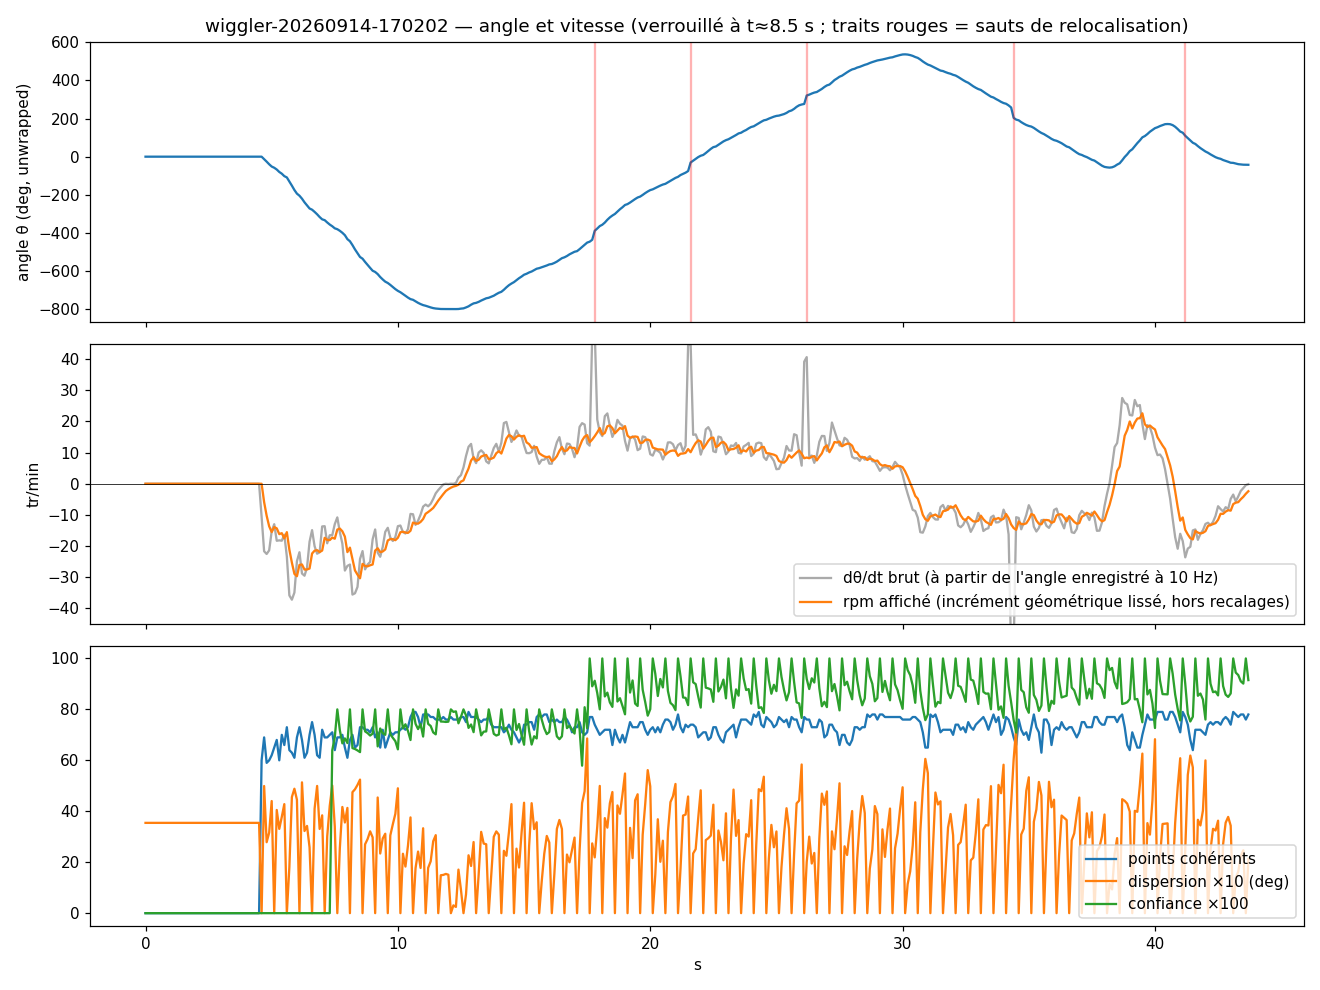
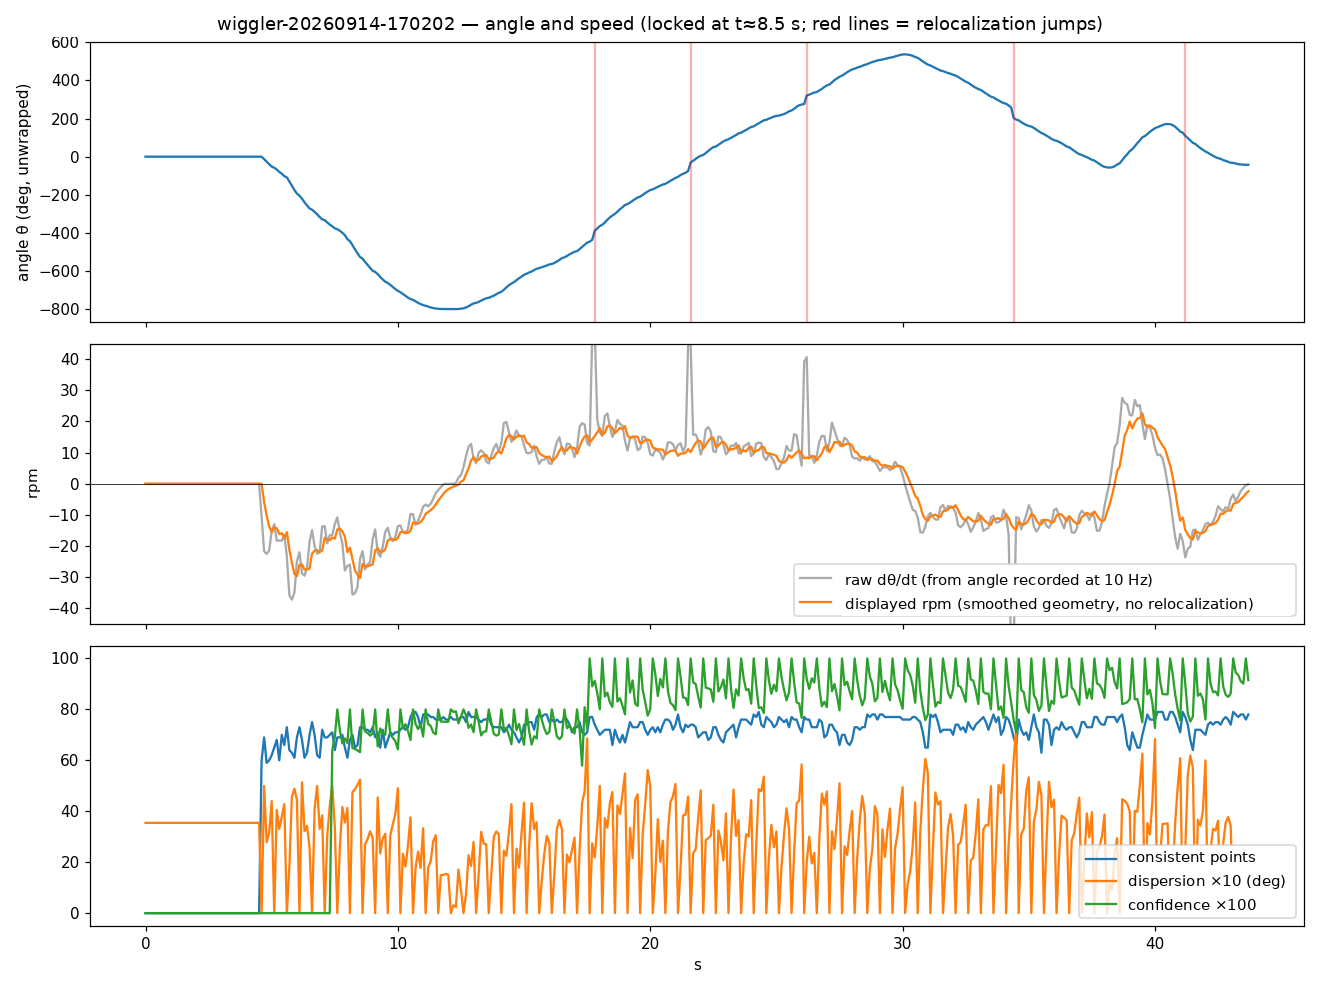
Translate repository text and chart annotations to English

diff --git a/README.md b/README.md
@@ -1,184 +1,181 @@
 # Wiggler
 
-App iPhone (15 Pro, iOS 17+) qui mesure en temps réel la rotation d'un objet filmé par un téléphone fixe :
-tour de potier, chaise de bureau, n'importe quoi qui tourne autour d'un axe fixe. Elle infère l'axe, puis l'angle
-de l'objet (0–360°) autour de cet axe, et affiche en réalité augmentée un cylindre sur l'axe et un rayon
-(demi-plan) qui tourne avec la pièce.
+An iPhone app (15 Pro, iOS 17+) that measures the rotation of an object in real time from a stationary phone:
+a pottery wheel, an office chair, or anything rotating around a fixed axis. It infers the axis, then the object's
+angle (0–360°) around that axis, and displays an augmented-reality cylinder along the axis and a ray
+(half-plane) that rotates with the object.
 
-Aucune hypothèse sur l'objet, la distance ou le point de vue. Une seule hypothèse : entre deux ré-évaluations
-l'objet est à peu près rigide et l'axe à peu près fixe (« semi-statique »). Tous les capteurs sont utilisés en
-permanence : image de la caméra, profondeur LiDAR, pose ARKit.
+No assumptions about the object, distance, or viewpoint. There is just one assumption: between two estimates,
+the object is approximately rigid and its axis approximately fixed ("semi-static"). All sensors are used
+continuously: camera image, LiDAR depth, and ARKit pose.
 
-## Construire
+## Build
 
 ```bash
 brew install xcodegen
 cd wiggler
-xcodegen generate          # produit Wiggler.xcodeproj
-open Wiggler.xcodeproj     # choisir votre équipe de signature, cible = votre iPhone
+xcodegen generate          # generates Wiggler.xcodeproj
+open Wiggler.xcodeproj     # select your signing team and your iPhone as the target
 ```
 
-Les tests du cœur algorithmique tournent sans iPhone, directement sur le Mac :
+The algorithmic core's tests run directly on a Mac, without an iPhone:
 
 ```bash
 cd WigglerCore
 swift test
 ```
 
-Ils vérifient l'algèbre (valeurs propres, transformations), le suivi de points, l'estimation d'axe, le suivi
-d'angle, la détection de période d'aspect, et un test de bout en bout sur une scène synthétique (disque texturé
-en rotation à vitesse variable, avec carte de profondeur et bruit).
+They check the algebra (eigenvalues, transforms), point tracking, axis estimation, angle tracking,
+appearance-period detection, and an end-to-end synthetic scene (a textured disk rotating at variable speed,
+with a depth map and noise).
 
-Un `Wiggler.xcodeproj` écrit à la main est aussi fourni (pas besoin de XcodeGen). Le bouton « Enregistrer » de
-l'app écrit des fichiers `.wig` (image 480×360, profondeur, pose, sorties du moteur) partageables par AirDrop et
-rejouables hors ligne avec `tools/replay.py`, et comparables entre stratégies de fusion avec
-`tools/fusion.py` (qui sait aussi injecter une occlusion ou une bibliothèque périmée pour tester les deux
-comportements qui comptent).
+A hand-written `Wiggler.xcodeproj` is also provided (XcodeGen is not required). The app's Record button writes
+`.wig` files (480×360 image, depth, pose, engine outputs) that can be shared through AirDrop and replayed
+offline with `tools/replay.py`. Fusion strategies can be compared with `tools/fusion.py`, which can also inject
+an occlusion or a stale library to test those two key behaviors.
 
-## Utilisation
+## Usage
 
-1. Fixer le téléphone en portrait, l'objet dans le champ.
-2. Toucher l'objet à l'écran : une croix apparaît ; les points sont cherchés dans un large disque autour d'elle.
-   Toucher ailleurs, ou glisser, déplace le repère. Chaque déplacement relance l'algorithme depuis zéro — c'est
-   fait pour « jouer avec le point » et déboguer.
-3. Faire tourner l'objet. État « calibration » : l'app collecte des cordes 3D jusqu'à trouver un axe bien
-   conditionné, puis attend un tour complet (compteur 0→360°). État « verrouillé » : l'axe est affiché (ligne
-   cyan, cylindre translucide, anneau à la base) et le rayon orange tourne avec la pièce.
-4. Pendant le premier tour après verrouillage, l'app apprend l'aspect de la pièce tous les 10° (jauge
-   « aspect »). Ensuite elle recale l'angle absolu en permanence sur cette bibliothèque et détecte la période
-   d'aspect : 360° (pièce quelconque), 180°, 120°… ou « symétrique » (pièce de révolution : seul l'angle relatif
-   est disponible, l'angle affiché dérive lentement).
+1. Mount the phone in portrait orientation with the object in view.
+2. Tap the object on screen: a cross appears, and points are detected in a large disk around it.
+   Tapping elsewhere, or dragging, moves the marker. Each move restarts the algorithm from scratch, so you
+   can experiment with marker placement and debug tracking.
+3. Rotate the object. In the calibrating state, the app collects 3D chords until it finds a well-conditioned
+   axis, then waits for a full turn (0→360° counter). In the locked state, the axis is displayed as a cyan line,
+   a translucent cylinder, and a ring at the base; the orange ray rotates with the object.
+4. During the first turn after locking, the app learns the object's appearance every 10° (appearance gauge).
+   It then continuously aligns the absolute angle with this library and detects the appearance period:
+   360° for an arbitrary object, 180°, 120°… or rotational symmetry. For a body of revolution, only the relative
+   angle is available, and the displayed angle drifts slowly.
 
-Points affichés : vert = suivi cohérent avec la rotation, rouge = incohérent (mains, fond), jaune = pas de
-profondeur, blanc = nouveau.
+Point colors: green = tracking consistent with rotation, red = inconsistent (hands, background),
+yellow = no depth, white = new.
 
-## Comment ça marche
+## How it works
 
-Tout est dans `WigglerCore` (Swift pur, sans dépendance Apple, donc testable sur Mac). L'app (`Wiggler/`) ne fait
-que convertir les frames ARKit, appeler le moteur et dessiner.
+The algorithms live in `WigglerCore` (pure Swift, without Apple platform-framework dependencies, so they can
+be tested on a Mac). The app (`Wiggler/`) converts ARKit frames, calls the engine, and renders the output.
 
-### 1. Suivi de points (image)
+### 1. Point tracking (image)
 
-Image luma réduite à 480×360. Coins de Shi–Tomasi détectés dans le disque autour du repère, suivis d'une frame
-à l'autre par un Lucas–Kanade pyramidal (4 niveaux, fenêtre 9×9) : à 100 tr/min et 60 fps un point du bord
-bouge d'une quinzaine de pixels, ce que la pyramide absorbe. Les pistes sont tuées quand le résidu photométrique
-monte (occlusion par la main), quand elles sortent de la région, ou quand elles s'avèrent statiques (fond).
-Le stock de pistes est réapprovisionné en continu (~160 points).
+The luma image is downscaled to 480×360. Shi–Tomasi corners are detected in the disk around the marker and
+tracked between frames with pyramidal Lucas–Kanade (4 levels, 9×9 window). At 100 rpm and 60 fps, an edge point
+moves about fifteen pixels, which the pyramid can handle. Tracks are removed when their photometric residual
+rises (hand occlusion), when they leave the region, or when they prove to be static background points.
+The pool of tracks is continuously replenished (~160 points).
 
-### 2. Points 3D (LiDAR + pose)
+### 2. 3D points (LiDAR + pose)
 
-Chaque point suivi est dé-projeté avec la profondeur LiDAR (médiane 3×3, rejet des bords de profondeur) et les
-intrinsèques de la caméra, puis passé en coordonnées monde avec la pose ARKit — ce qui absorbe les petits
-mouvements du téléphone. Résultat : des trajectoires 3D métriques, sans aucune connaissance de l'échelle ni de
-la distance.
+Each tracked point is unprojected using LiDAR depth (3×3 median, depth-edge rejection) and the camera
+intrinsics, then transformed into world coordinates using the ARKit pose. This compensates for small phone
+movements. The result is a set of metric 3D trajectories, without prior knowledge of scale or distance.
 
-### 3. Axe : contraintes de cordes
+### 3. Axis: chord constraints
 
-Un point rigide qui tourne autour d'un axe (c, n) décrit un cercle dans un plan ⊥ n. Pour deux positions a, b
-d'une même piste, la corde d = b − a vérifie exactement, quelle que soit l'amplitude de l'arc :
+A rigid point rotating around an axis (c, n) traces a circle in a plane perpendicular to n. For two positions
+a and b on the same track, the chord d = b − a satisfies these exact identities, regardless of arc size:
 
-* d · n = 0 (la corde est dans le plan du cercle) ;
-* (m − c) · d = 0 avec m = (a+b)/2 (la médiatrice d'une corde passe par le centre).
+* d · n = 0 (the chord lies in the circle's plane);
+* (m − c) · d = 0, where m = (a+b)/2 (the perpendicular bisector of a chord passes through the center).
 
-Le moteur accumule ces cordes (une par piste toutes les 3 frames, avec une longueur minimale adaptée au bruit :
-2 cm puis 10 % du rayon de l'objet, base temporelle ≤ 0,75 s) dans une fenêtre glissante de 15 s, et résout :
+The engine accumulates these chords in a sliding 15 s window: one per track every 3 frames, with a minimum
+length adapted to the noise (2 cm initially, then 10% of the object radius) and a time span ≤ 0.75 s. It solves:
 
-* n = vecteur propre de la plus petite valeur propre de Σ w dᵀd ;
-* c = moindres carrés linéaires de Σ w ((m − c)·d̂)², contraint dans le plan ⊥ n passant par le barycentre.
+* n = the eigenvector of the smallest eigenvalue of Σ w d dᵀ;
+* c = the linear least-squares solution of Σ w ((m − c)·d̂)², constrained to the plane perpendicular to n
+  through the centroid.
 
-Le tout en IRLS avec pondération de Huber (3 cm) : mains, fond et profondeurs aberrantes tombent en
-dehors. La qualité est lue sur les valeurs propres (planarité λ₀/λ₁, couverture angulaire λ₁/λ₂) et le taux
-d'inliers. Validé en Python : 0,25° sur la direction et 0,7 mm sur la position avec 6 mm de bruit et 20 % de
-points parasites.
+IRLS with Huber weights (3 cm) rejects hands, background, and depth outliers. Quality is assessed from the
+eigenvalues (planarity λ₀/λ₁, angular coverage λ₁/λ₂) and the inlier ratio. Python validation measured 0.25°
+direction error and 0.7 mm position error with 6 mm noise and 20% outliers.
 
-### 4. Angle : offsets par piste (la « mesure relative »)
+### 4. Angle: per-track offsets (the relative measurement)
 
-Pour chaque piste i, l'azimut φᵢ(t) autour de l'axe vaut θ(t) + oᵢ. L'offset oᵢ est ancré à la naissance de la
-piste ; θ(t) est la moyenne circulaire robuste (Cauchy puis porte à 15°, poids ∝ min(r, r_cap)²) des φᵢ − oᵢ,
-prédite par la vitesse précédente pour encaisser 10°/frame. Les pistes incohérentes trois frames de suite sont
-ré-ancrées. Comme chaque piste « se souvient » de θ depuis sa naissance, la dérive ne vient que du renouvellement
-des pistes, pas de chaque frame (≈ 2° RMS en simulation à 100 tr/min, 6 mm de bruit).
+For each track i, the azimuth φᵢ(t) around the axis is θ(t) + oᵢ. The offset oᵢ is anchored when the track is
+created. θ(t) is the robust circular mean of φᵢ − oᵢ (Cauchy weighting followed by a 15° gate, with weights
+proportional to min(r, r_cap)²), predicted from the previous velocity to handle 10°/frame. Tracks that remain
+inconsistent for three consecutive frames are re-anchored. Since each track remembers θ from its creation,
+drift comes only from track turnover, not from every frame (about 2° RMS in simulation at 100 rpm with 6 mm noise).
 
-Le raffinement de l'axe est fait **après** la mesure d'angle, jamais avant : ré-ancrer les offsets d'abord rend
-tous les candidats d'accord avec θ courant et détruit silencieusement un incrément toutes les
-`axisUpdateInterval` frames (mesuré : 7 % des images gelées, soit ~7 % de rotation perdue en permanence).
+The axis is refined **after** the angle measurement, never before. Re-anchoring offsets first makes every
+candidate agree with the current θ and silently discards one increment every `axisUpdateInterval` frames.
+The measured effect was 7% frozen frames, meaning about 7% of the rotation was consistently lost.
 
-### 4 bis. Recoupement indépendant
+### 4b. Independent cross-check
 
-Les mêmes correspondances KLT donnent aussi une rotation 2D dans le plan image (Procrustes + IRLS,
-`similarityRotation`). Elle n'utilise ni la profondeur ni l'axe, donc elle échoue dans d'autres situations que
-l'azimut 3D. Le rapport entre les deux est appris en ligne (il ne dépend que de l'inclinaison de l'axe vis-à-vis
-de la caméra, constante à téléphone fixe) ; quand les deux cessent de concorder trois frames de suite, c'est que
-quelque chose d'autre s'est emparé des points suivis, et la géométrie n'est plus déclarée « saine » — quel que
-soit le nombre d'inliers qu'elle annonce.
+The same KLT correspondences also provide a 2D image-plane rotation (Procrustes + IRLS, `similarityRotation`).
+It uses neither depth nor the axis, so it fails in different situations from the 3D azimuth. The ratio between
+them is learned online; it depends only on the axis tilt relative to the camera, which is constant for a fixed
+phone. If the two disagree for three consecutive frames, something else has taken over the tracked points.
+The geometry is then no longer considered healthy, regardless of its reported inlier count.
 
-### 5. Aspect et fusion (la « mesure absolue »)
+### 5. Appearance and fusion (the absolute measurement)
 
-Une vignette 32×32 de la région d'intérêt est rangée dans un casier tous les 10°. La bibliothèque est utilisable
-dès 6 casiers — attendre un tour complet la rendrait indisponible la plupart du temps (mesuré : 8 % → 94 % du
-temps verrouillé). La moyenne des casiers remplis (le fond statique) est soustraite avant normalisation.
+A 32×32 patch of the region of interest is stored in an angular bin every 10°. The library is usable as soon as
+6 bins are filled. Waiting for a full turn would leave it unavailable most of the time; measured availability
+rose from 8% to 94% of the locked time. The mean of the filled bins (the static background) is subtracted before
+normalization.
 
-La fusion (`AngleFusion`) est un filtre complémentaire classique, l'incrément géométrique jouant le gyroscope et
-l'aspect la boussole :
+Fusion (`AngleFusion`) uses a classic complementary filter. The geometric increment acts as a gyroscope,
+and appearance acts as a compass:
 
-1. **Aucun téléport.** Une correction devient un débit borné (90°/s), donc l'angle affiché est toujours continu —
-   et les tr/min, qui viennent du seul incrément géométrique, ne sont jamais pollués par les recalages.
-2. **Une incertitude honnête.** σ croît en marche aléatoire (renouvellement des pistes) tant que la géométrie
-   mesure, et **linéairement à la vitesse de rotation** quand elle ne mesure plus : un objet que personne ne
-   regarde continue de tourner dans le même sens. C'est pour cela qu'une occlusion de 0,3 s à 100 tr/min ouvre le
-   portail à 180° alors que 30 s de suivi sain le garde à quelques degrés.
-3. **Portail et validation.** Un appariement n'est utilisé que dans un portail d'innovation à 3σ, et seulement si
-   aucun appariement nettement meilleur ne se trouve en dehors. Le lobe à 120° d'une boîte hexagonale devient donc
-   impossible à suivre après un fonctionnement sain, et une vraie ré-acquisition à 150° reste possible juste après
-   une perte.
+1. **No jumps.** A correction becomes a bounded rate (90°/s), keeping the displayed angle continuous.
+   The rpm reading comes only from the geometric increment and is never contaminated by realignment.
+2. **Honest uncertainty.** σ grows as a random walk through track turnover while geometry provides a
+   measurement, and **linearly with rotation speed** when it does not: an unobserved object keeps rotating in
+   the same direction. This is why a 0.3 s occlusion at 100 rpm opens the gate to 180°, while 30 s of healthy
+   tracking keeps it within a few degrees.
+3. **Gating and validation.** A match is used only inside a 3σ innovation gate, and only if no clearly better
+   match lies outside it. The 120° lobe of a hexagonal box therefore cannot be followed after healthy tracking,
+   while genuine reacquisition at 150° remains possible immediately after a loss.
 
-Quand un appariement **fort** contredit une géométrie **saine** pendant plus de 2 s, c'est la bibliothèque qui a
-tort (objet déplacé, éclairage changé) : elle est reconstruite au lieu d'être combattue.
+When a **strong** match contradicts **healthy** geometry for more than 2 s, the library is considered stale
+(the object moved or the lighting changed). It is rebuilt rather than allowed to fight the geometry.
 
-Mesuré sur `wiggler-20260914-160109` (90 s, manipulations à la main) : 11 discontinuités jusqu'à 177° avant,
-**0 après**, et le résidu contre la rotation d'image indépendante passe de 39 à 19 °/s.
+Measurements on `wiggler-20260914-160109` (90 s, hand manipulations): 11 discontinuities of up to 177° before,
+**0 after**, and the residual against independent image rotation decreased from 39 to 19 °/s.
 
-### 6. Affichage
+### 6. Rendering
 
-SceneKit (`ARSCNView`) : repère local (e₁, n, −e₂) placé sur l'axe monde ; une rotation de θ autour de l'axe y
-local correspond exactement à l'azimut mesuré par le moteur, donc le rayon orange est simplement
-`eulerAngles.y = θ`. Le cylindre prend le rayon (80ᵉ percentile des distances à l'axe) et la hauteur
-(5ᵉ–95ᵉ percentiles) des pistes cohérentes.
+SceneKit (`ARSCNView`) uses a local frame (e₁, n, −e₂) placed on the world-space axis. A rotation of θ around
+its local y axis corresponds exactly to the azimuth measured by the engine, so the orange ray simply uses
+`eulerAngles.y = θ`. The cylinder's radius is the 80th percentile of distances to the axis; its height spans
+the 5th–95th percentiles of consistent tracks.
 
-## Réglages utiles (`EngineConfig`)
+## Useful settings (`EngineConfig`)
 
-| Paramètre | Défaut | Rôle |
+| Parameter | Default | Purpose |
 |---|---|---|
-| `targetTrackCount` | 160 | nombre de points suivis |
-| `maxResidual` | 0.12 | rejet photométrique (0–1) |
-| `chordMinMeters` | 0.02 | longueur minimale d'une corde avant axe |
-| `chordMaxFrames` | 45 | base temporelle max d'une corde |
-| `constraintWindowFrames` | 900 | fenêtre glissante des cordes (15 s) |
-| `lockedDriftFrames` | 3 | estimations d'axe contradictoires avant adoption |
-| `minHealthyInliers` | 20 | points en dessous desquels la géométrie n'est plus « saine » |
-| `staleLibrarySeconds` | 2.0 | contradiction avant reconstruction de la bibliothèque d'aspect |
-| `keyframeBins` | 36 | vignettes par tour (10°) |
+| `targetTrackCount` | 160 | number of tracked points |
+| `maxResidual` | 0.12 | photometric rejection threshold (0–1) |
+| `chordMinMeters` | 0.02 | minimum chord length before an axis is known |
+| `chordMaxFrames` | 45 | maximum chord time span in frames |
+| `constraintWindowFrames` | 900 | sliding chord window (15 s) |
+| `lockedDriftFrames` | 3 | inconsistent axis estimates before adopting a new axis |
+| `minHealthyInliers` | 20 | minimum point count for healthy geometry |
+| `staleLibrarySeconds` | 2.0 | disagreement duration before rebuilding the appearance library |
+| `keyframeBins` | 36 | patches per turn (10°) |
 
-## Limites connues / pistes
+## Known limits / ideas
 
-* ARKit peut se laisser perturber par un grand objet en mouvement (le tour occupe l'image) ; si la pose
-  devient fausse, poser le téléphone face à un fond fixe visible sur les bords, ou forcer la pose identité.
-* Une pièce parfaitement lisse ET de révolution n'offre ni texture ni asymétrie : rien à suivre — par
-  construction l'app ne prédit rien dans ce cas.
-* Le LiDAR est bruité sur les bords (rejet par médiane) et sous ~20 cm ; entre 30 cm et 2 m tout va bien.
+* A large moving object can confuse ARKit when it fills the image. If the pose becomes incorrect, position
+  the phone so that a stationary background is visible at the edges, or force the identity pose.
+* A perfectly smooth body of revolution provides neither texture nor asymmetry: there is nothing to track.
+  By design, the app makes no prediction in this case.
+* LiDAR is noisy at edges (handled by median rejection) and below about 20 cm. Between 30 cm and 2 m it works well.
 
-## Journal d'essais (14 sept. 2026, chaise de bureau + boîte)
+## Experiment log (September 14, 2026, office chair + box)
 
-* **Perf** : le package compilé sans `-O` prenait 60–400 ms/image ; avec `-O` forcé dans `Package.swift`, 2–5 ms.
-* **Boîte au bord de l'assise** : échec — le LiDAR (256×192, lissé) attribue aux points de la boîte la profondeur
-  du sol derrière. Ajout d'un rejet des sauts de profondeur par piste (> 8 %). Règle pratique : viser l'intérieur
-  de la silhouette de profondeur.
-* **Recalibrations intempestives** : l'axe ré-estimé bougeait de 3–8 cm (chaise qui roule) → tolérance élargie et
-  *adoption* douce du nouvel axe au lieu d'un retour en calibration.
-* **Objet tenu en main** (pas d'axe fixe) : jamais verrouillé, planarité ≈ 0,4 — comportement voulu.
-* **Enregistrement `wiggler-20260914-154441`** : verrouillé après un tour (10 s), bibliothèque d'aspect complète à
-  14 s, confiance 0,8–0,99, dispersion 1–3°, passage de la main et inversion de sens encaissés.
-* ARKit livre ~20 fps après quelques minutes (contrainte thermique) ; le moteur n'est pas le goulot.
+* **Performance:** the package took 60–400 ms/frame without `-O`; forcing `-O` in `Package.swift` reduced this to 2–5 ms.
+* **Box at the seat edge:** failed because the smoothed 256×192 LiDAR assigned the depth of the floor behind it
+  to the box's points. Per-track depth-jump rejection (> 8%) was added. A practical rule is to aim inside the
+  depth silhouette.
+* **Unwanted recalibrations:** the re-estimated axis moved by 3–8 cm as the chair rolled. Tolerances were widened,
+  and the new axis is now adopted gradually instead of restarting calibration.
+* **Hand-held object without a fixed axis:** never locked, with planarity about 0.4, as intended.
+* **Recording `wiggler-20260914-154441`:** locked after one turn (10 s), appearance library complete at 14 s,
+  confidence 0.8–0.99, dispersion 1–3°. Hand occlusions and direction reversals were handled successfully.
+* ARKit delivers about 20 fps after a few minutes because of thermal limits; the engine is not the bottleneck.
 
-Outils : `tools/wigreader.py` (lecture des `.wig`), `tools/replay.py` (rejeu complet avec OpenCV, rapport PNG),
-`tools/diag_tracks.py` (ajustement de cercles par piste).
+Tools: `tools/wigreader.py` reads `.wig` files; `tools/replay.py` replays the full pipeline with OpenCV and produces
+PNG reports; `tools/diag_tracks.py` fits circles to individual tracks.
